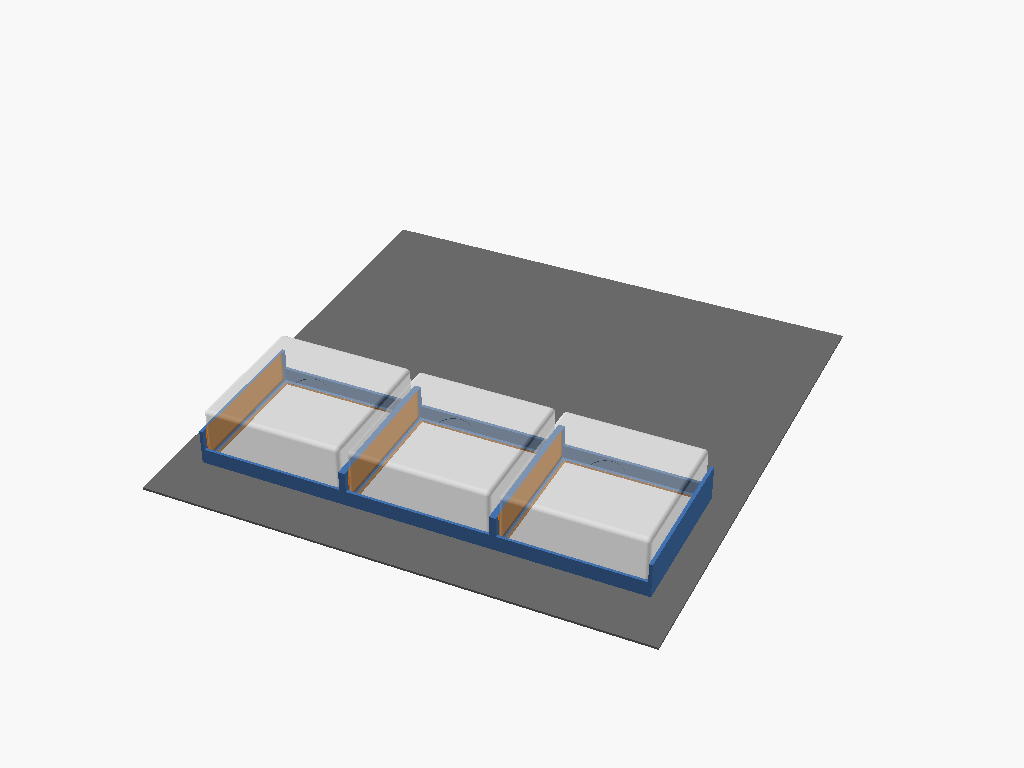
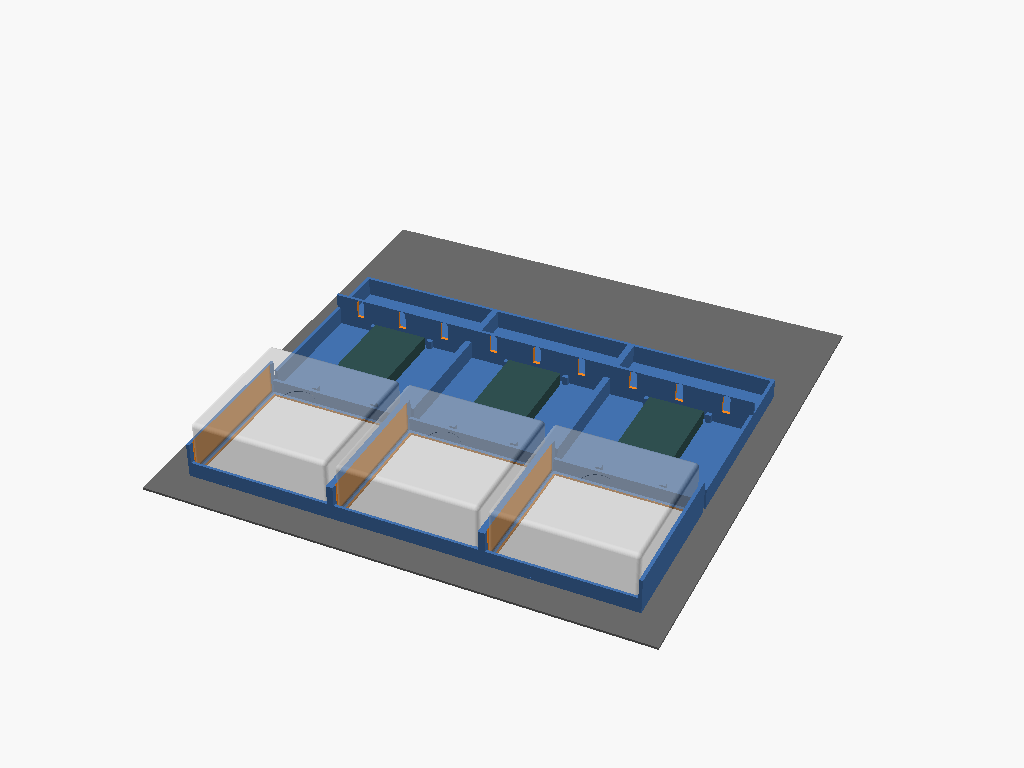
Add cable management: per-column rear unit with drive tray, comb, and channel segment
mac_mini_rear.scad combines three jobs per column:
- Drive tray: 4 corner posts register a 100x50x12mm NVMe enclosure
  centered in the unit. USB-C port faces the mini for short cable run.
- Slotted comb wall: 30mm tall wall behind the drive with 3 keyhole
  slots cut from the top — captures power + ethernet + spare cables.
- Rear channel segment: open trough behind the comb. Three units butt
  together to form a continuous channel across the shelf width with
  open ends for cable exit.

~35mm of clear lateral space on each side of the drive lets power
and ethernet route alongside it without climbing over.

mini_shelf.scad updated to render the full assembly (cradles + minis
+ rear units + drives + shelf ghost) for fit verification.

Changed region(s): [[0.1562, 0.3438, 0.7812, 0.8125]]

diff --git a/README.md b/README.md
@@ -68,6 +68,12 @@ Source: [`src/mac_mini_cradle.scad`](src/mac_mini_cradle.scad)
 
 ![mac_mini_cradle](previews/mac_mini_cradle.png)
 
+### `mac_mini_rear`
+
+Source: [`src/mac_mini_rear.scad`](src/mac_mini_rear.scad)
+
+![mac_mini_rear](previews/mac_mini_rear.png)
+
 ### `mini_shelf`
 
 Source: [`src/mini_shelf.scad`](src/mini_shelf.scad)
